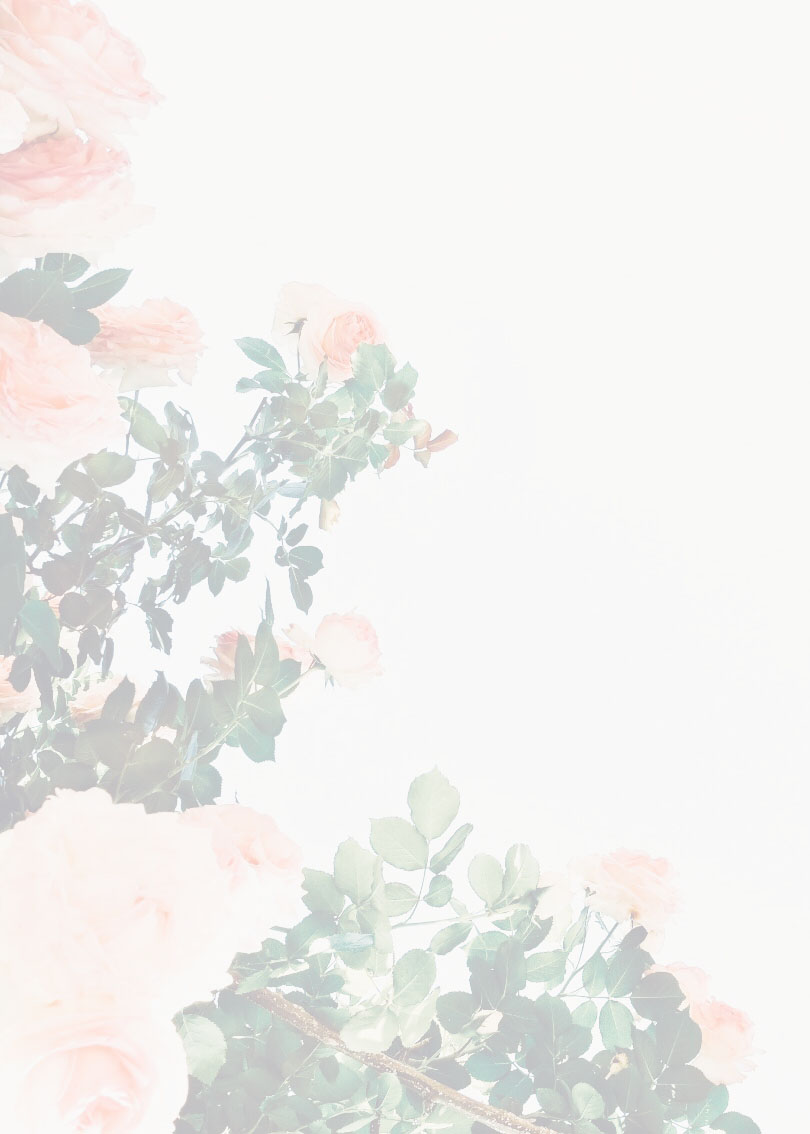
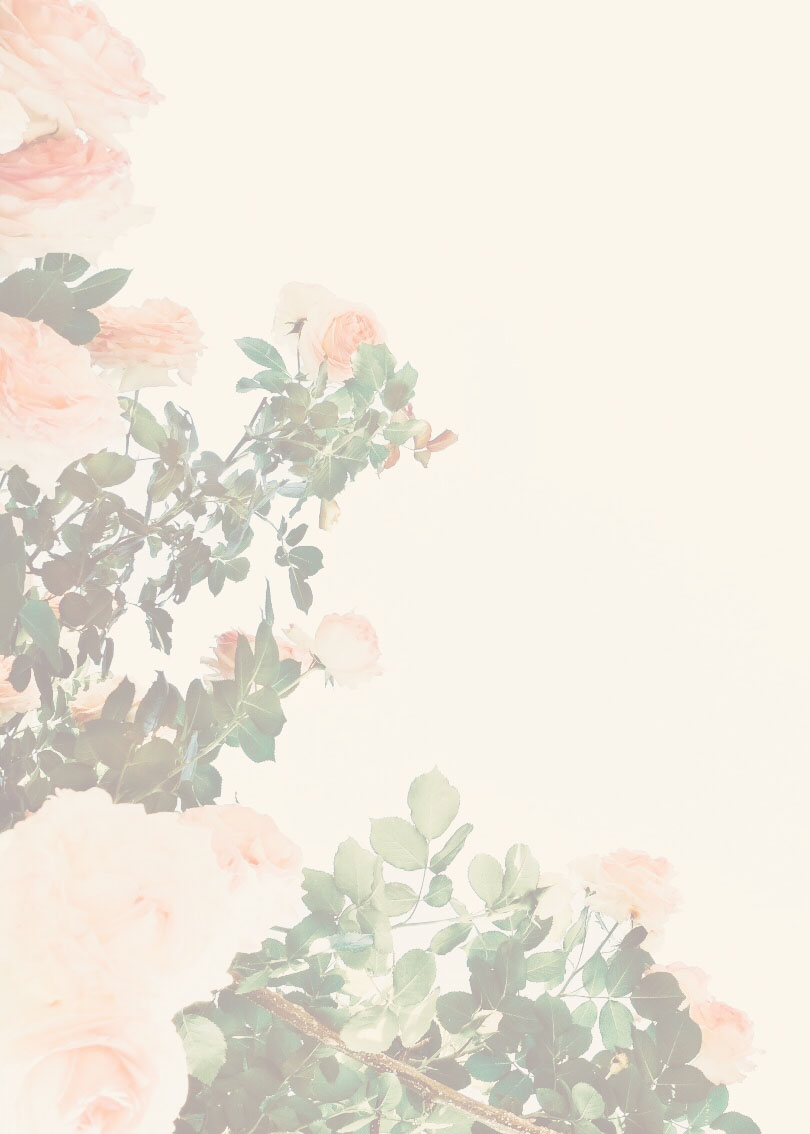
u

diff --git a/index.html b/index.html
@@ -24,7 +24,7 @@
 <link href='https://fonts.googleapis.com/css?family=Pacifico' rel='stylesheet' type='text/css'>
 <link href="css/style.css" rel="stylesheet" media="screen">
 </head>
-<body class="outside-bottom-bar-page" style="background-color: #FDFAF3;">
+<body class="outside-bottom-bar-page" style="background-color: #faf5ec;">
 	<div id="preloader">
 		<div class="alignment">
 			<div class="v-align center-middle">
@@ -49,7 +49,7 @@
 	</section>
 	
 	<section>	
-		<div style="height:600px;margin-top:100px;background-image: url(./images/bak_1.jpg);background-size: cover;background-position: unset;">
+		<div style="height:680px;background-image: url(./images/bak_1.jpg);background-size: cover;background-position: unset;">
 			&nbsp
 			<div>
 				<div>
